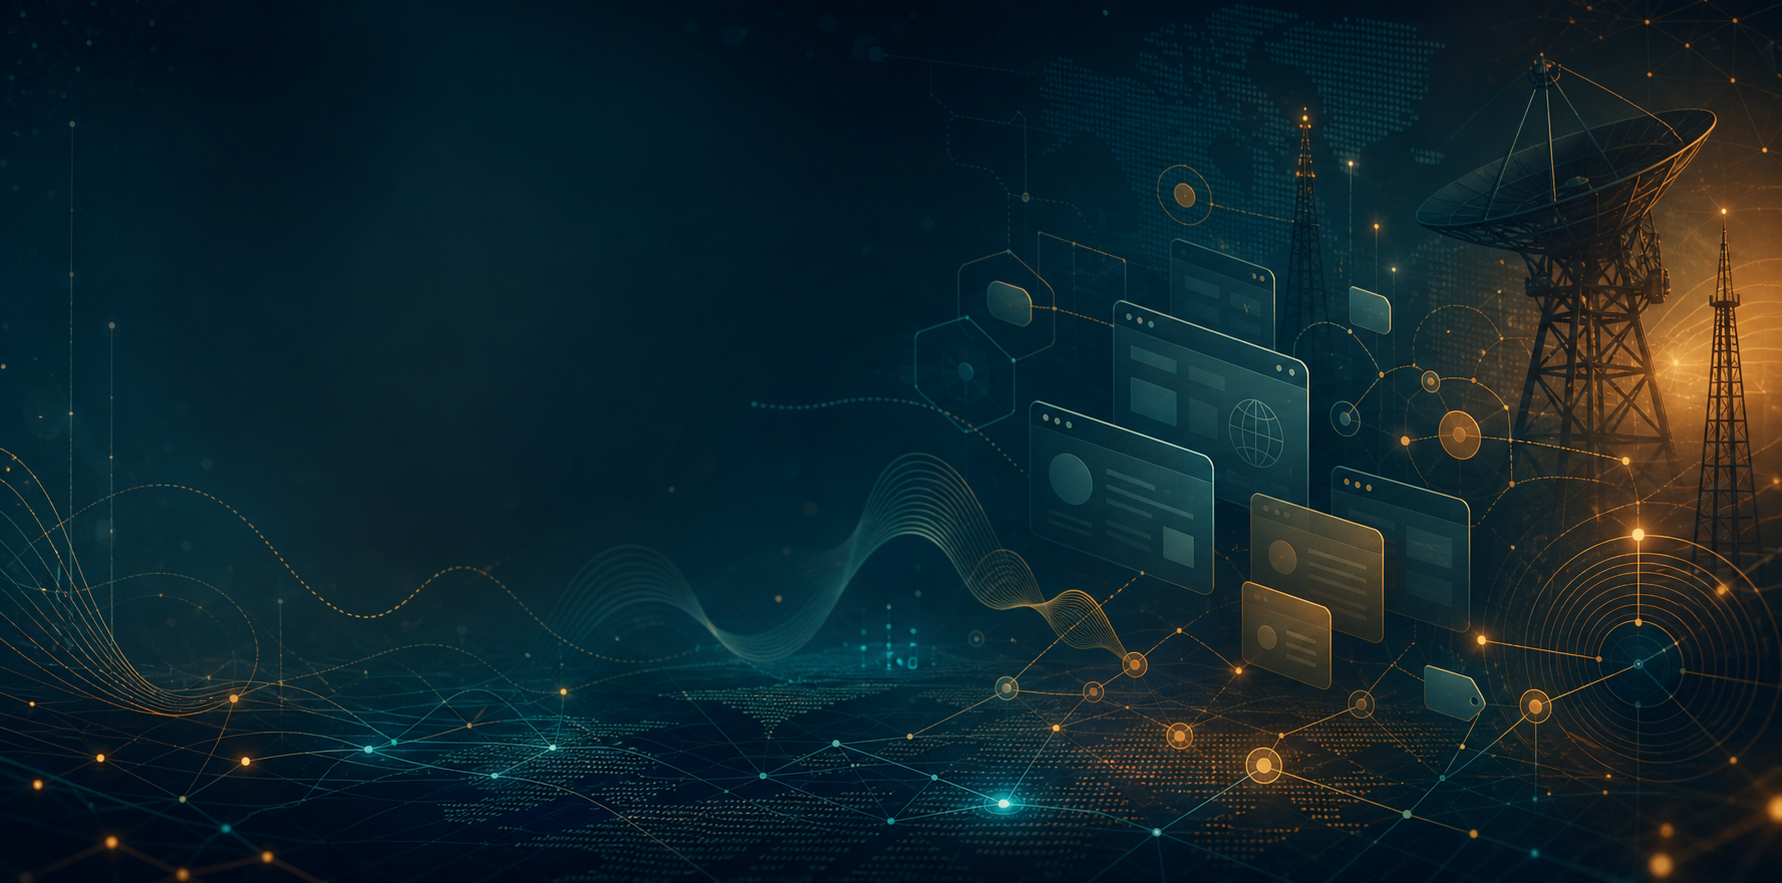
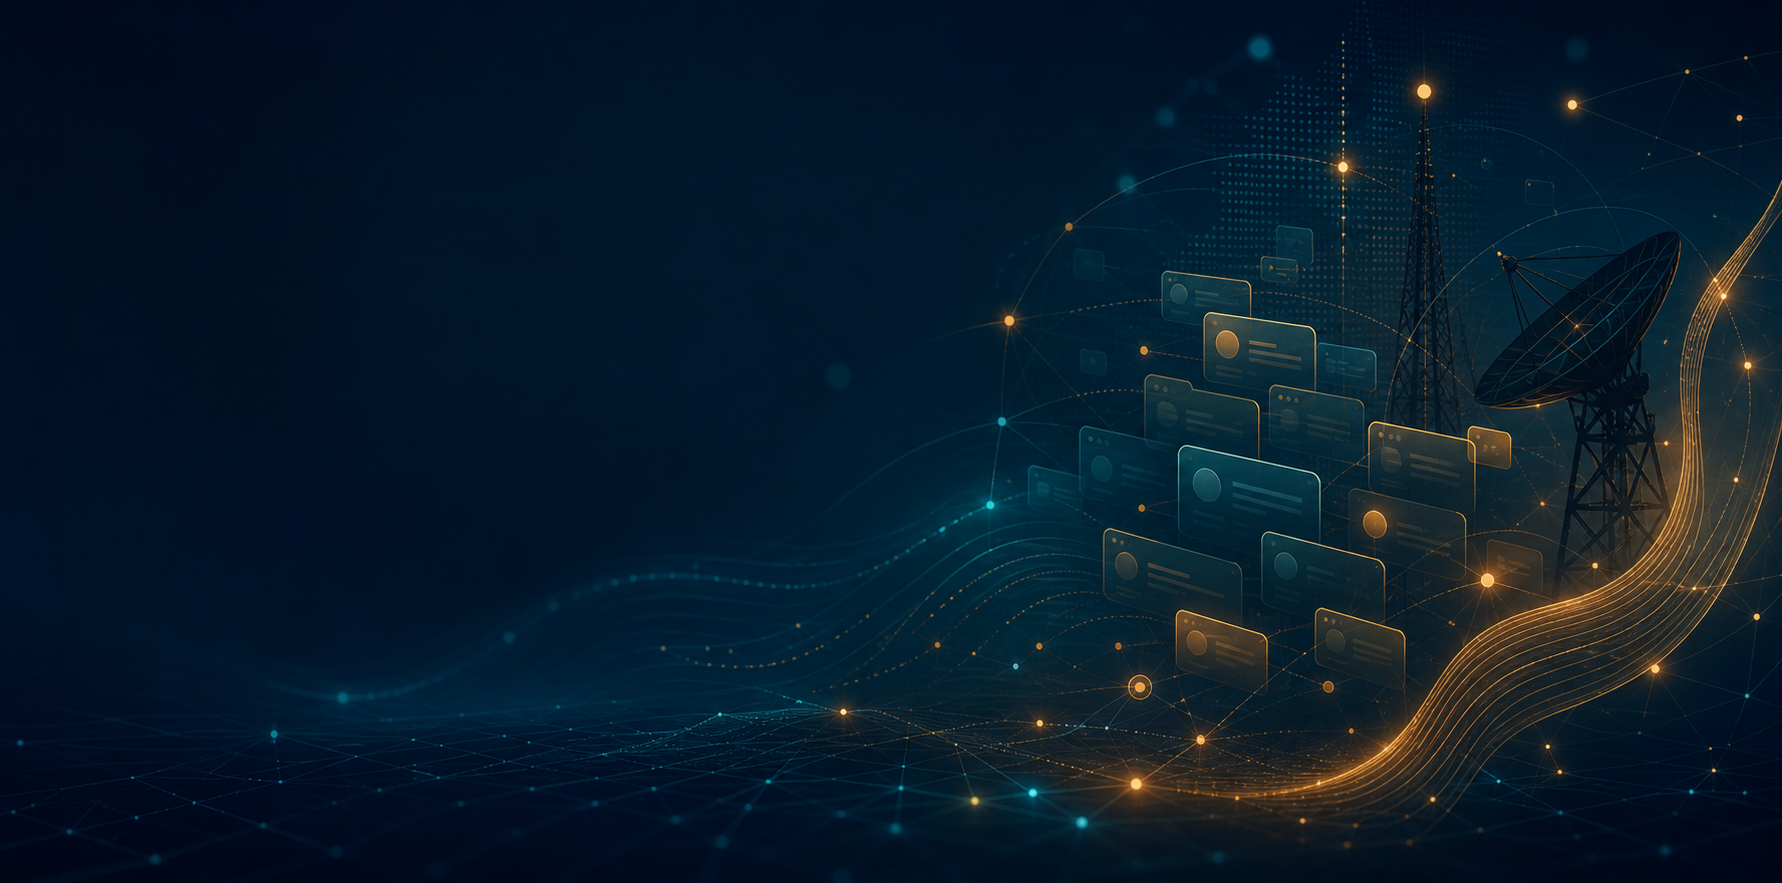
new modules

diff --git a/app/member_webotheque.php b/app/member_webotheque.php
@@ -320,6 +320,7 @@ function render_webotheque_page(): void
     $user = require_login();
     $locale = current_locale();
     $t = webotheque_i18n($locale);
+    $memberAreaLabel = member_area_eyebrow_label($locale);
 
     set_page_meta([
         'title' => (string) $t['title'],
@@ -468,7 +469,7 @@ function render_webotheque_page(): void
     <div class="stack webotheque-page">
         <section class="page-hero webotheque-hero">
             <div class="webotheque-hero-copy">
-                <p class="eyebrow"><?= e((string) $t['members_area']) ?></p>
+                <p class="eyebrow"><?= e($memberAreaLabel) ?></p>
                 <h1><?= e((string) $t['title']) ?></h1>
                 <p class="help"><?= e((string) $t['intro']) ?></p>
             </div>
@@ -582,21 +583,32 @@ function render_webotheque_page(): void
             </form>
         </section>
 
-        <?php if (count($categories) > 1): ?>
-            <nav class="classifieds-category-strip webotheque-category-filter" aria-label="<?= e((string) ($t['domain_field'] ?? $t['category_field'])) ?>">
-                <a class="classifieds-category-pill<?= $categoryFilter === '' ? ' is-active' : '' ?>" href="<?= e(route_url_clean('webotheque', ['q' => $search])) ?>"><?= e((string) $t['all_categories']) ?></a>
-                <?php foreach ($categories as $code => $label): ?>
-                    <a class="classifieds-category-pill<?= $categoryFilter === $code ? ' is-active' : '' ?>" href="<?= e(route_url_clean('webotheque', ['q' => $search, 'category' => (string) $code])) ?>"><?= e((string) $label) ?></a>
-                <?php endforeach; ?>
-            </nav>
-        <?php endif; ?>
-
-        <section id="webotheque-list" class="webotheque-content">
-            <?php if ($links === []): ?>
-                <div class="card"><p><?= e((string) $t['empty']) ?><?php if ($search !== '' || $categoryFilter !== ''): ?><?= e((string) $t['for_filters']) ?>.<?php endif; ?></p></div>
-            <?php else: ?>
-                <div class="news-grid webotheque-grid"><?= render_webotheque_cards($links, $t, $categories) ?></div>
+        <section class="webotheque-layout">
+            <?php if (count($categories) > 1): ?>
+                <aside class="card webotheque-domains-column">
+                    <p class="webotheque-domains-title"><?= e((string) ($t['domain_field'] ?? $t['category_field'])) ?></p>
+                    <nav class="webotheque-domains-list" aria-label="<?= e((string) ($t['domain_field'] ?? $t['category_field'])) ?>">
+                        <a class="webotheque-domain-item<?= $categoryFilter === '' ? ' is-active' : '' ?>" href="<?= e(route_url_clean('webotheque', ['q' => $search])) ?>"<?= $categoryFilter === '' ? ' aria-current="page"' : '' ?>>
+                            <span><?= e((string) $t['all_categories']) ?></span>
+                            <strong><?= (int) ($stats['total'] ?? 0) ?></strong>
+                        </a>
+                        <?php foreach ($categories as $code => $label): ?>
+                            <a class="webotheque-domain-item<?= $categoryFilter === $code ? ' is-active' : '' ?>" href="<?= e(route_url_clean('webotheque', ['q' => $search, 'category' => (string) $code])) ?>"<?= $categoryFilter === $code ? ' aria-current="page"' : '' ?>>
+                                <span><?= e((string) $label) ?></span>
+                                <strong><?= (int) ($stats['by_category'][$code] ?? 0) ?></strong>
+                            </a>
+                        <?php endforeach; ?>
+                    </nav>
+                </aside>
             <?php endif; ?>
+
+            <section id="webotheque-list" class="webotheque-content">
+                <?php if ($links === []): ?>
+                    <div class="card"><p><?= e((string) $t['empty']) ?><?php if ($search !== '' || $categoryFilter !== ''): ?><?= e((string) $t['for_filters']) ?>.<?php endif; ?></p></div>
+                <?php else: ?>
+                    <div class="news-grid webotheque-grid"><?= render_webotheque_cards($links, $t, $categories) ?></div>
+                <?php endif; ?>
+            </section>
         </section>
     </div>
     <?php

diff --git a/app/i18n_helpers.php b/app/i18n_helpers.php
@@ -275,3 +275,26 @@ function t_page(string $domain, string $key, ?string $locale = null): string
     return $key;
 }
 }
+
+if (!function_exists('member_area_eyebrow_label')) {
+function member_area_eyebrow_label(?string $locale = null): string
+{
+    $localeCode = strtolower(trim((string) ($locale ?? current_locale())));
+    $localeCode = str_replace('_', '-', $localeCode);
+    if (str_contains($localeCode, '-')) {
+        $localeCode = (string) explode('-', $localeCode, 2)[0];
+    }
+
+    if ($localeCode === 'fr') {
+        return 'Espace Membre';
+    }
+    if ($localeCode === 'en') {
+        return 'Member Area';
+    }
+
+    $homeMessages = i18n_domain_locale('home', $localeCode);
+    $label = trim((string) ($homeMessages['member_module_members_title'] ?? ''));
+
+    return $label !== '' ? $label : 'Member Area';
+}
+}